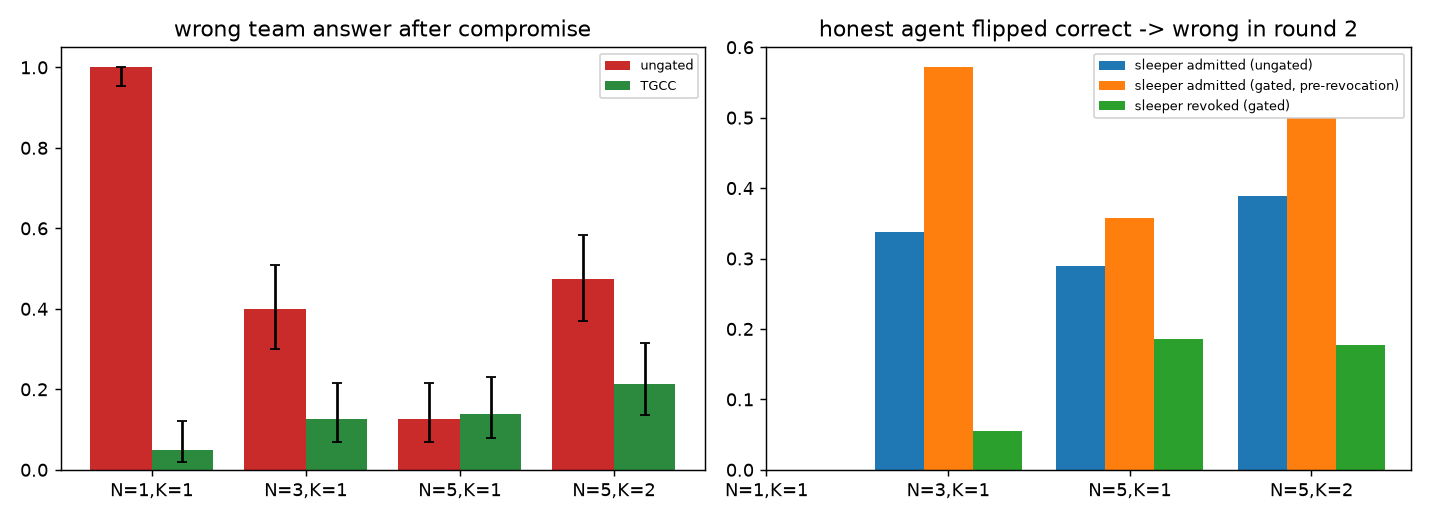
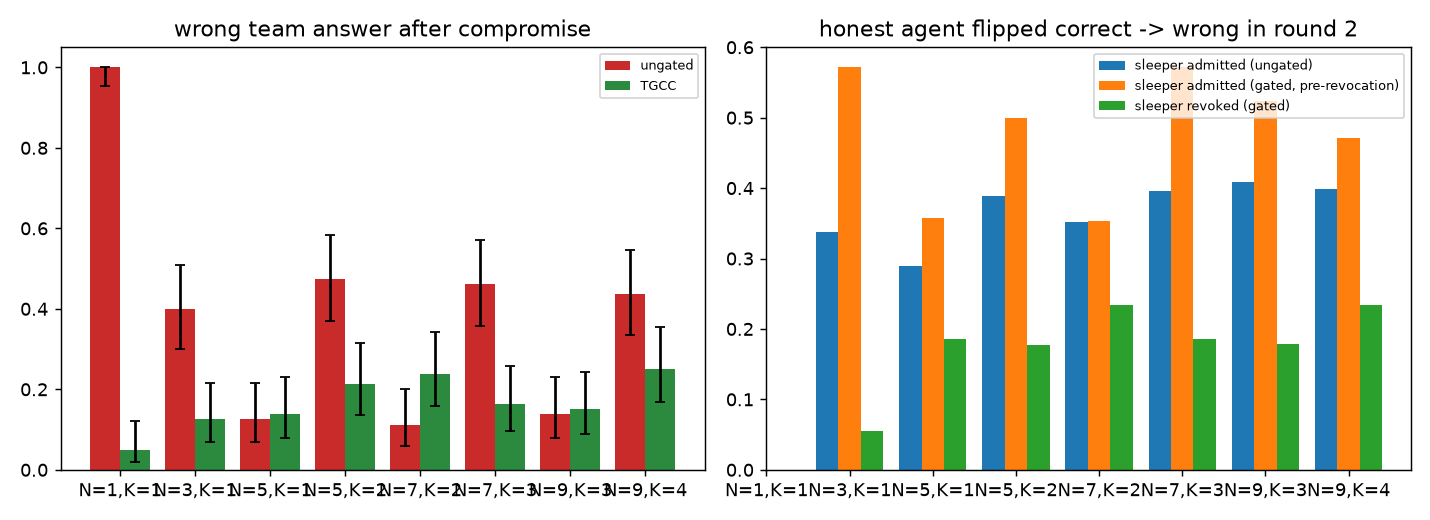
N30: debate with N=7, 9 and K=2-4 sleepers (TGCC-R)

Changed region(s): [[0.5538, 0.1231, 0.9846, 0.9538], [0.0615, 0.1231, 0.4923, 0.9538]]

diff --git a/src/tgcc/nextphase/n30_debate_harm.py b/src/tgcc/nextphase/n30_debate_harm.py
@@ -44,7 +44,8 @@ from tgcc.nextphase.streams import _force_wrong, compute_signals, pilot_signals,
 from tgcc.probes import parse_answer, parse_confidence
 
 EXP = "n30_debate_harm"
-CONDITIONS = ((1, 1), (3, 1), (5, 1), (5, 2))
+CONDITIONS = ((1, 1), (3, 1), (5, 1), (5, 2), (7, 2), (7, 3), (9, 3), (9, 4))
+LEGACY_CONDITIONS = ((1, 1), (3, 1), (5, 1), (5, 2))   # the original TGCC is reported only on these
 
 
 class AgentR(Agent):
@@ -180,10 +181,11 @@ def run() -> dict:
     out = {"TGCC": {}, "TGCC-R": {}, "windows": windows}
     for n, k in CONDITIONS:
         ung = [run_series(s, n, k, False, banks, clients, thetas) for s in range(SERIES)]
-        gat = [run_series(s, n, k, True, banks, clients, thetas) for s in range(SERIES)]
         gat_r = [run_series(s, n, k, True, banks, clients, thetas_r, "TGCC-R", windows) for s in range(SERIES)]
-        out["TGCC"][f"N={n},K={k}"] = analyse(ung, gat)
         out["TGCC-R"][f"N={n},K={k}"] = analyse(ung, gat_r)
+        if (n, k) in LEGACY_CONDITIONS:
+            gat = [run_series(s, n, k, True, banks, clients, thetas) for s in range(SERIES)]
+            out["TGCC"][f"N={n},K={k}"] = analyse(ung, gat)
     return out
 
 

diff --git a/nextphase/n30_debate_harm/README.md b/nextphase/n30_debate_harm/README.md
@@ -19,6 +19,10 @@ McNemar exact p-value on those discordant pairs.
 | N=3,K=1 [TGCC-R] | 0.15 [0.07, 0.29] (6/40) | 0.15 [0.07, 0.29] (6/40) | 0.40 [0.30, 0.51] (32/80) | 0.12 [0.07, 0.22] (10/80) | 23 / 1 | 3e-06 | 0.05 [0.02, 0.12] (4/80) | 38/241 |
 | N=5,K=1 [TGCC-R] | 0.07 [0.03, 0.20] (3/40) | 0.12 [0.05, 0.26] (5/40) | 0.12 [0.07, 0.22] (10/80) | 0.14 [0.08, 0.23] (11/80) | 3 / 4 | 1 | 0.05 [0.02, 0.12] (4/80) | 76/482 |
 | N=5,K=2 [TGCC-R] | 0.07 [0.03, 0.20] (3/40) | 0.12 [0.05, 0.26] (5/40) | 0.47 [0.37, 0.58] (38/80) | 0.21 [0.14, 0.31] (17/80) | 22 / 1 | 5.7e-06 | 0.05 [0.02, 0.12] (4/80) | 67/362 |
+| N=7,K=2 [TGCC-R] | 0.07 [0.03, 0.20] (3/40) | 0.10 [0.04, 0.23] (4/40) | 0.11 [0.06, 0.20] (9/80) | 0.24 [0.16, 0.34] (19/80) | 2 / 12 | 0.013 | 0.05 [0.02, 0.12] (4/80) | 105/603 |
+| N=7,K=3 [TGCC-R] | 0.07 [0.03, 0.20] (3/40) | 0.10 [0.04, 0.23] (4/40) | 0.46 [0.36, 0.57] (37/80) | 0.16 [0.10, 0.26] (13/80) | 26 / 2 | 3e-06 | 0.05 [0.02, 0.12] (4/80) | 76/482 |
+| N=9,K=3 [TGCC-R] | 0.07 [0.03, 0.20] (3/40) | 0.07 [0.03, 0.20] (3/40) | 0.14 [0.08, 0.23] (11/80) | 0.15 [0.09, 0.24] (12/80) | 5 / 6 | 1 | 0.05 [0.02, 0.12] (4/80) | 114/723 |
+| N=9,K=4 [TGCC-R] | 0.07 [0.03, 0.20] (3/40) | 0.07 [0.03, 0.20] (3/40) | 0.44 [0.33, 0.55] (35/80) | 0.25 [0.17, 0.35] (20/80) | 22 / 7 | 0.0081 | 0.05 [0.02, 0.12] (4/80) | 105/603 |
 | N=1,K=1 [TGCC] | 0.07 [0.03, 0.20] (3/40) | 0.07 [0.03, 0.20] (3/40) | 1.00 [0.95, 1.00] (80/80) | 0.04 [0.01, 0.10] (3/80) | 77 / 0 | 1.3e-23 | 0.96 [0.90, 0.99] (77/80) | 0/0 |
 | N=3,K=1 [TGCC] | 0.15 [0.07, 0.29] (6/40) | 0.17 [0.09, 0.32] (7/40) | 0.40 [0.30, 0.51] (32/80) | 0.11 [0.06, 0.20] (9/80) | 24 / 1 | 1.5e-06 | 0.14 [0.08, 0.23] (11/80) | 64/241 |
 | N=5,K=1 [TGCC] | 0.07 [0.03, 0.20] (3/40) | 0.17 [0.09, 0.32] (7/40) | 0.12 [0.07, 0.22] (10/80) | 0.12 [0.07, 0.22] (10/80) | 3 / 3 | 1 | 0.14 [0.08, 0.23] (11/80) | 128/482 |
@@ -34,6 +38,10 @@ gated team's wrong answers into the window between compromise and revocation and
 | N=3,K=1 [TGCC-R] | 0.34 [0.27, 0.42] (49/145) | 0.57 [0.25, 0.84] (4/7) | 0.06 [0.03, 0.12] (6/108) | 1.00 [0.51, 1.00] (4/4) | 0.08 [0.04, 0.16] (6/76) |
 | N=5,K=1 [TGCC-R] | 0.29 [0.24, 0.34] (84/290) | 0.36 [0.16, 0.61] (5/14) | 0.19 [0.14, 0.24] (40/216) | 0.25 [0.05, 0.70] (1/4) | 0.13 [0.07, 0.23] (10/76) |
 | N=5,K=2 [TGCC-R] | 0.39 [0.33, 0.46] (84/216) | 0.50 [0.24, 0.76] (5/10) | 0.18 [0.13, 0.25] (27/152) | 0.75 [0.30, 0.95] (3/4) | 0.18 [0.11, 0.29] (14/76) |
+| N=7,K=2 [TGCC-R] | 0.35 [0.30, 0.40] (127/361) | 0.35 [0.17, 0.59] (6/17) | 0.23 [0.19, 0.29] (61/260) | 0.25 [0.05, 0.70] (1/4) | 0.24 [0.16, 0.34] (18/76) |
+| N=7,K=3 [TGCC-R] | 0.40 [0.34, 0.45] (115/290) | 0.57 [0.33, 0.79] (8/14) | 0.19 [0.14, 0.24] (40/216) | 0.75 [0.30, 0.95] (3/4) | 0.13 [0.07, 0.23] (10/76) |
+| N=9,K=3 [TGCC-R] | 0.41 [0.36, 0.46] (178/435) | 0.52 [0.32, 0.72] (11/21) | 0.18 [0.14, 0.22] (58/324) | 0.25 [0.05, 0.70] (1/4) | 0.14 [0.08, 0.24] (11/76) |
+| N=9,K=4 [TGCC-R] | 0.40 [0.35, 0.45] (144/361) | 0.47 [0.26, 0.69] (8/17) | 0.23 [0.19, 0.29] (61/260) | 0.50 [0.15, 0.85] (2/4) | 0.24 [0.16, 0.34] (18/76) |
 | N=1,K=1 [TGCC] | n/a | n/a | n/a | 1.00 [0.44, 1.00] (3/3) | 0.00 [0.00, 0.05] (0/77) |
 | N=3,K=1 [TGCC] | 0.34 [0.27, 0.42] (49/145) | 0.60 [0.23, 0.88] (3/5) | 0.02 [0.01, 0.07] (2/95) | 1.00 [0.44, 1.00] (3/3) | 0.08 [0.04, 0.16] (6/77) |
 | N=5,K=1 [TGCC] | 0.29 [0.24, 0.34] (84/290) | 0.30 [0.11, 0.60] (3/10) | 0.18 [0.13, 0.24] (34/190) | 0.33 [0.06, 0.79] (1/3) | 0.12 [0.06, 0.21] (9/77) |

diff --git a/nextphase/IEEE_REVIEW_COVERAGE.md b/nextphase/IEEE_REVIEW_COVERAGE.md
@@ -75,7 +75,7 @@ Every headline experiment reports TGCC-R; the original TGCC is kept as a referen
 ### R2-2. Debate: harm prevented, not revocation
 | Evidence | Result (TGCC-R) |
 |---|---|
-| N30 paired harm prevented (McNemar) | N=1: 76 prevented / 0 caused (p = 3e-23); N=3: 23/1 (p = 3e-6); N=5, K=1: 3/4 (no gain); **N=5, K=2: wrong 0.47 -> 0.21, 22/1 (p = 6e-6)**. |
+| N30 paired harm prevented (McNemar), 8 team configurations N = 1-9, K = 1-4 sleepers | Gating helps whenever the sleepers can swing the vote (K/N >= 1/3): N=1: 76 prevented / 0 caused (p = 3e-23); N=3,K=1: 23/1 (3e-6); N=5,K=2: wrong 0.47 -> 0.21, 22/1 (6e-6); **N=7,K=3: 0.46 -> 0.16, 26/2 (3e-6); N=9,K=4: 0.44 -> 0.25, 22/7 (0.008)**. When the honest majority already outvotes them it does not: N=5,K=1 3/4 (p = 1), N=9,K=3 5/6 (p = 1), and **N=7,K=2 is harmed: 0.11 -> 0.24, 2/12 (p = 0.013)** because denying 16-19% of honest agent-questions removes more correct voters than the two outvoted sleepers cost. Reported as a limitation: in debate, gate when a sleeper group could form a blocking minority. |
 | N30 influence before revocation | An admitted sleeper flips 29-39% of honest agents from correct to wrong; after revocation 6-19%; harm concentrates in the questions before revocation. |
 | Cost | Honest agent-questions denied **16-19%** (TGCC: 27-30%); pool abstains 5% (TGCC: 14%). |
 

diff --git a/nextphase/CHANGES.md b/nextphase/CHANGES.md
@@ -235,3 +235,8 @@ Reviewer mapping and results: [IEEE_REVIEW_COVERAGE.md](IEEE_REVIEW_COVERAGE.md)
 |---|---|---|
 | E11 | N34's layer-order test permuted the signal columns, which also relabelled the epistemic probe as a rule-based conjunct (CRC then zeroed all rule-based thresholds on Qwen2.5-7B / MedMCQA). | Layer order now permutes only the synergy hierarchy of the composite; each conjunct stays attached to its probe. |
 | E12 | On open-weight models the honest agent is confidently wrong too often for the epistemic layer to separate it from a sleeper (sleeper OER 0.32-1.00); stricter thresholds deny 0.45-0.97 of honest steps. | Reported as a limitation; TGCC-R flags it before deployment from the pilot (`qualifying_windows`). |
+
+### Debate scale (R2-1 / R2-2)
+| File | Change |
+|---|---|
+| `nextphase/n30_debate_harm.py` | Team sizes N = 7 and 9 with K = 2-4 sleepers (TGCC-R only; the original TGCC kept on N <= 5). Result: gains whenever K/N >= 1/3; no gain or harm (N=7, K=2) when the honest majority already outvotes the sleepers, because of honest denials. |
